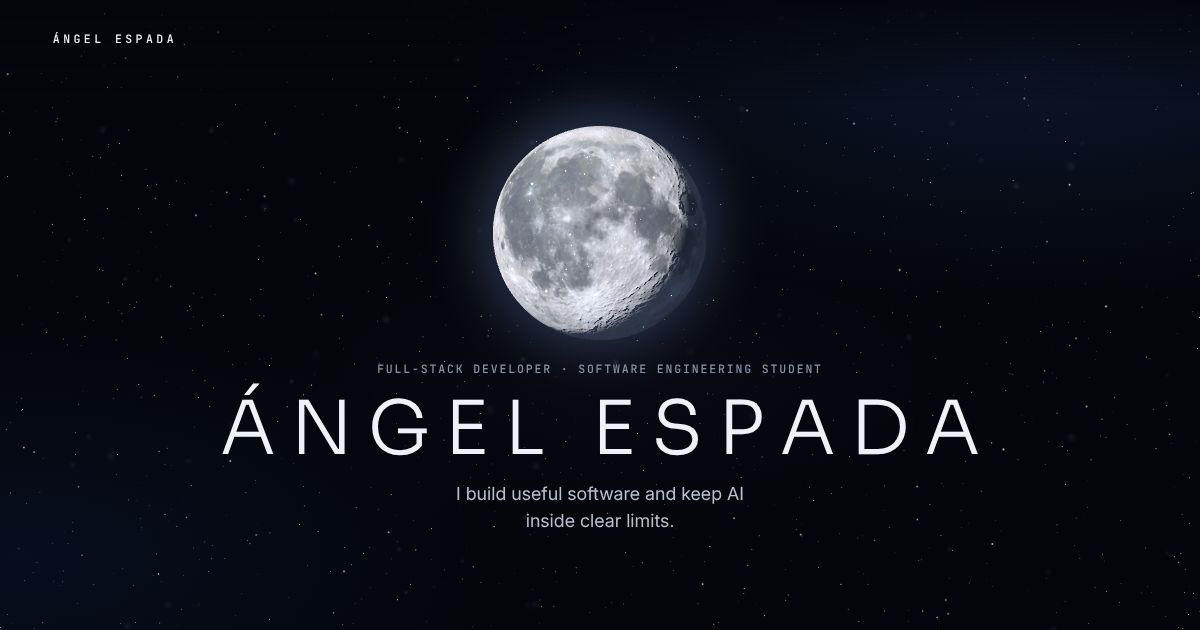
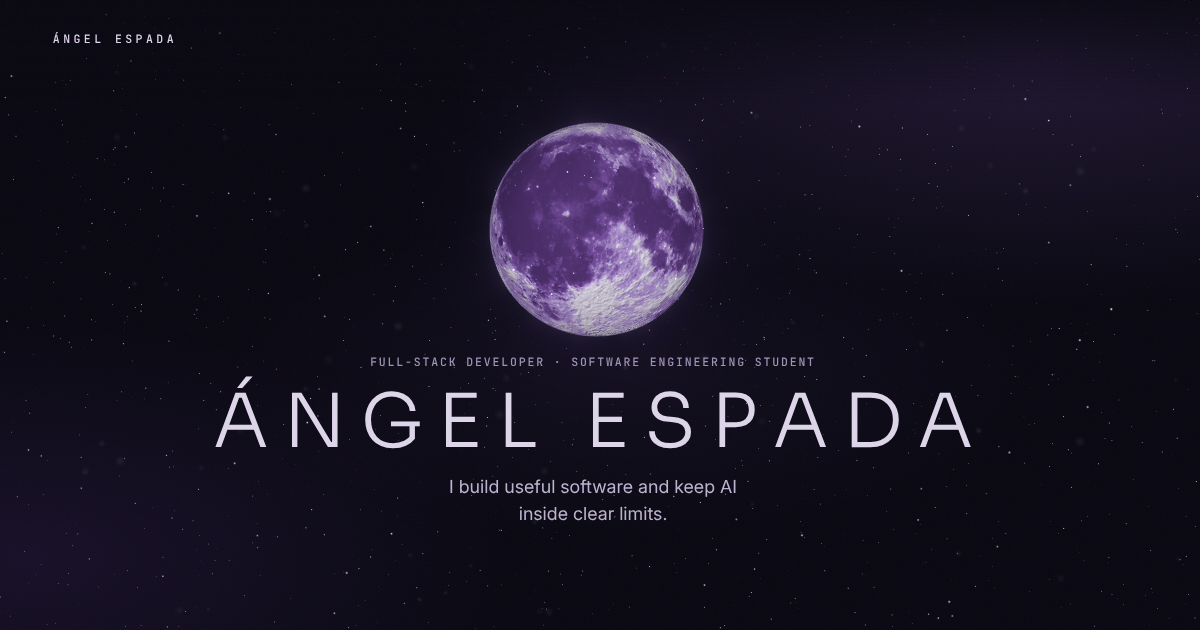
Violet Moon identity; constellations loose in the night sky
Palette tokens from the Violet Moon brief across the site, a violet 2D
Moon, favicon and share image. The constellations leave their panels:
each has its own angle, size and place, with faint field stars around
it. The distance read-out of the old landing story is gone, and the
eclipse easing follows real elapsed time.

Claude-Session: https://claude.ai/code/session_01JAtTwg3b8ajGojUEkEGU2J

Changed region(s): [[0.185, 0.181, 0.8325, 0.7238], [0.37, 0.754, 0.6167, 0.8444]]

diff --git a/src/styles/global.css b/src/styles/global.css
@@ -1,13 +1,17 @@
-/* Lunar Experience. One dark field, white and silver type, one pale blue accent. */
+/* Violet Moon. One dark field, silver type, violet light. */
 :root {
-  --bg: #03050a;
-  --ink: #eef2f8;
-  --silver: #b6bfcd;
-  --dim: #8590a3;
-  --line: rgba(190, 208, 235, 0.16);
-  --line-strong: rgba(190, 208, 235, 0.34);
-  --blue: #9cc0ff;
-  --accent: var(--blue);
+  /* Violet Moon */
+  --bg: #080711;        /* Space Black: the field */
+  --surface: #111020;   /* Deep Space: panels */
+  --deep: #251638;      /* Deep Purple: secondary fields */
+  --royal: #65428D;     /* Royal Violet: accents, never text (2.6:1 on the field) */
+  --soft: #A98AD8;      /* Soft Violet: light, focus and highlighted text (7:1) */
+  --ink: #DDD5E9;       /* Lunar Silver: headings and strong text (14:1) */
+  --silver: #BDB3CF;    /* body text (10:1) */
+  --dim: #9C91B4;       /* quiet labels (6.8:1) */
+  --line: rgba(201, 182, 236, 0.16);
+  --line-strong: rgba(201, 182, 236, 0.34);
+  --accent: var(--soft);
 
   --m: clamp(20px, 4.4vw, 72px);
   --gap: clamp(96px, 14vw, 200px);
@@ -37,7 +41,7 @@ img, video, svg { display: block; max-width: 100%; }
 img, video { height: auto; }
 a { color: inherit; text-decoration: none; }
 [hidden] { display: none !important; }
-:focus-visible { outline: 2px solid var(--blue); outline-offset: 4px; border-radius: 4px; }
+:focus-visible { outline: 2px solid var(--soft); outline-offset: 4px; border-radius: 4px; }
 ::selection { background: var(--ink); color: var(--bg); }
 
 /* ---------- Type ---------- */
@@ -46,12 +50,12 @@ a { color: inherit; text-decoration: none; }
 .lead { font-size: clamp(18px, 1.5vw, 22px); line-height: 1.5; color: var(--silver); max-width: 34ch; text-wrap: pretty; }
 .label { display: flex; align-items: center; gap: 14px; color: var(--silver); }
 .label::after { content: ''; width: 44px; height: 1px; background: var(--line-strong); }
-.label b { font-weight: 500; color: var(--blue); }
+.label b { font-weight: 500; color: var(--soft); }
 
 /* ---------- Buttons and links ---------- */
 .btn {
   display: inline-flex; align-items: center; gap: 12px; min-height: 48px; padding: 0 24px;
-  border: 1px solid var(--line-strong); border-radius: 999px; background: rgba(3, 5, 10, 0.35);
+  border: 1px solid var(--line-strong); border-radius: 999px; background: rgba(8, 7, 17, 0.35);
   font-family: var(--mono); font-size: 12px; font-weight: 500; letter-spacing: 0.14em; text-transform: uppercase; color: var(--ink);
   transition: background-color 0.35s var(--ease), color 0.35s var(--ease), border-color 0.35s, transform 0.35s var(--ease);
 }
@@ -72,18 +76,18 @@ a { color: inherit; text-decoration: none; }
 .space::before {
   content: ''; position: absolute; inset: -10%;
   background:
-    radial-gradient(58% 46% at 80% 16%, rgba(52, 86, 168, 0.2), transparent 70%),
-    radial-gradient(48% 44% at 10% 82%, rgba(30, 58, 128, 0.17), transparent 70%),
-    radial-gradient(40% 30% at 52% 58%, rgba(84, 72, 150, 0.06), transparent 70%);
+    radial-gradient(58% 46% at 80% 16%, rgba(101, 66, 141, 0.26), transparent 70%),
+    radial-gradient(48% 44% at 10% 82%, rgba(70, 40, 110, 0.24), transparent 70%),
+    radial-gradient(40% 30% at 52% 58%, rgba(120, 80, 170, 0.08), transparent 70%);
 }
 /* A sparse still sky, shown until (or instead of) the live one. */
 .space::after {
   content: ''; position: absolute; inset: 0; opacity: 0.75; transition: opacity 1.2s;
   background-image:
-    radial-gradient(1px 1px at 12% 18%, #fff, transparent), radial-gradient(1px 1px at 78% 9%, #cfe0ff, transparent),
+    radial-gradient(1px 1px at 12% 18%, #fff, transparent), radial-gradient(1px 1px at 78% 9%, #e6dcff, transparent),
     radial-gradient(1.4px 1.4px at 33% 72%, #fff, transparent), radial-gradient(1px 1px at 91% 55%, #fff, transparent),
-    radial-gradient(1px 1px at 58% 34%, #dfe9ff, transparent), radial-gradient(1.6px 1.6px at 6% 61%, #fff, transparent),
-    radial-gradient(1px 1px at 46% 88%, #fff, transparent), radial-gradient(1px 1px at 68% 78%, #cfe0ff, transparent),
+    radial-gradient(1px 1px at 58% 34%, #e6dcff, transparent), radial-gradient(1.6px 1.6px at 6% 61%, #fff, transparent),
+    radial-gradient(1px 1px at 46% 88%, #fff, transparent), radial-gradient(1px 1px at 68% 78%, #e6dcff, transparent),
     radial-gradient(1.2px 1.2px at 24% 43%, #fff, transparent), radial-gradient(1px 1px at 86% 28%, #fff, transparent);
   background-size: 620px 540px;
 }
@@ -100,9 +104,9 @@ a { color: inherit; text-decoration: none; }
 
 .page { position: relative; z-index: 1; overflow-x: clip; }
 
-/* ---------- Fixed instruments: navigation, scene rail, telemetry ---------- */
+/* ---------- Fixed instruments: navigation and scene rail ---------- */
 .nav { position: fixed; inset: 0 0 auto 0; z-index: 20; display: flex; align-items: center; justify-content: space-between; gap: 20px; padding: 18px var(--m); }
-.nav::before { content: ''; position: absolute; inset: 0 0 -28px 0; z-index: -1; background: linear-gradient(to bottom, rgba(3, 5, 10, 0.86), rgba(3, 5, 10, 0)); pointer-events: none; }
+.nav::before { content: ''; position: absolute; inset: 0 0 -28px 0; z-index: -1; background: linear-gradient(to bottom, rgba(8, 7, 17, 0.86), rgba(8, 7, 17, 0)); pointer-events: none; }
 .nav a { color: var(--silver); transition: color 0.25s; }
 .nav a:hover, .nav a[aria-current] { color: var(--ink); }
 .nav-mark { color: var(--ink) !important; letter-spacing: 0.3em; padding: 12px 0; }
@@ -112,7 +116,7 @@ a { color: inherit; text-decoration: none; }
 .nav-menu { position: relative; }
 .nav-menu summary { list-style: none; cursor: pointer; color: var(--ink); padding: 12px 0; }
 .nav-menu summary::-webkit-details-marker { display: none; }
-.nav-menu ul { position: absolute; right: 0; top: 100%; min-width: 220px; display: grid; gap: 4px; padding: 18px 22px; border: 1px solid var(--line); border-radius: 16px; background: rgba(6, 9, 16, 0.96); }
+.nav-menu ul { position: absolute; right: 0; top: 100%; min-width: 220px; display: grid; gap: 4px; padding: 18px 22px; border: 1px solid var(--line); border-radius: 16px; background: rgba(17, 16, 32, 0.96); }
 .nav-menu li a { display: block; padding: 11px 0; color: var(--ink); }
 @media (min-width: 900px) { .nav-links { display: flex; } .nav-menu { display: none; } }
 
@@ -123,7 +127,7 @@ a { color: inherit; text-decoration: none; }
 .rail a::after { content: ''; width: 14px; height: 1px; background: currentColor; transition: width 0.4s var(--ease); }
 .rail a:hover span, .rail a:focus-visible span { opacity: 1; transform: none; }
 .rail a:hover, .rail a[aria-current] { color: var(--ink); }
-.rail a[aria-current]::after { width: 34px; background: var(--blue); }
+.rail a[aria-current]::after { width: 34px; background: var(--soft); }
 @media (min-width: 1100px) and (min-height: 620px) { .rail { display: block; } }
 
 /* ---------- Entrances. Content is only hidden while the script that reveals it is running. ---------- */
@@ -153,31 +157,26 @@ a { color: inherit; text-decoration: none; }
 .about { padding-block: 0; }
 .about-inner { display: grid; gap: 22px; align-content: center; max-width: 600px; padding-block: var(--gap); }
 .about-inner p:not(.hud) { max-width: 52ch; }
-.about-inner { text-shadow: 0 0 18px rgba(3, 5, 10, 0.9); }
+.about-inner { text-shadow: 0 0 18px rgba(8, 7, 17, 0.9); }
 .interests { display: grid; gap: 8px; margin-top: 8px; }
 .interests li { display: flex; gap: 12px; color: var(--silver); }
-.interests li::before { content: '+'; color: var(--blue); }
+.interests li::before { content: '+'; color: var(--soft); }
 @media (min-width: 900px) {
   .about { min-height: 175svh; }
   .about-inner { position: sticky; top: 0; min-height: 100svh; padding-block: 96px 48px; }
 }
 
-/* 03 Skills: constellations, drawn like star charts */
-.sky { display: grid; gap: clamp(20px, 2.4vw, 32px); margin-top: clamp(48px, 7vw, 96px); }
-.constellation {
-  position: relative; padding: 22px 22px 34px; border-radius: 20px;
-  border: 1px solid rgba(169, 138, 216, 0.22);
-  background: radial-gradient(120% 90% at 30% 0%, rgba(37, 22, 56, 0.55), rgba(17, 16, 32, 0.62));
-  transition: opacity 0.5s var(--ease), border-color 0.4s;
-}
-.constellation:hover, .constellation:focus-within { border-color: rgba(169, 138, 216, 0.45); }
-.constellation h3 { color: var(--ink); font-size: 13px; display: flex; align-items: baseline; gap: 10px; }
-.constellation h3 span { color: var(--dim); }
-.c-map { position: relative; aspect-ratio: 1; margin: 18px 6px 0;
-  background-image: linear-gradient(rgba(169, 138, 216, 0.07) 1px, transparent 1px), linear-gradient(90deg, rgba(169, 138, 216, 0.07) 1px, transparent 1px);
-  background-size: 12.5% 12.5%; background-position: -1px -1px; border-radius: 6px; }
+/* 03 Skills: constellations, loose in the night sky */
+.sky { display: grid; gap: clamp(40px, 5vw, 72px) clamp(24px, 4vw, 64px); margin-top: clamp(56px, 8vw, 112px); }
+.constellation { position: relative; transition: opacity 0.6s var(--ease); }
+/* The name of a constellation, written on the sky like on an old star chart. */
+.constellation h3 { position: relative; z-index: 1; font-family: var(--display); font-weight: 300; font-size: clamp(17px, 1.5vw, 21px); letter-spacing: 0.02em; color: var(--dim); }
+.c-map { position: relative; aspect-ratio: 1; margin: 6px 0 0; }
+.c-field { position: absolute; inset: -6%; pointer-events: none; }
+.c-field i { position: absolute; width: var(--s); height: var(--s); border-radius: 50%; background: #efe8ff; opacity: var(--o); translate: -50% -50%;
+  animation: twinkle 7s ease-in-out infinite; animation-delay: calc(var(--d) * -1); }
 .c-map > svg { position: absolute; inset: 0; width: 100%; height: 100%; overflow: visible; }
-.c-map line { stroke: rgba(201, 182, 236, 0.5); stroke-width: 0.36; stroke-linecap: round;
+.c-map line { stroke: rgba(201, 182, 236, 0.34); stroke-width: 0.3; stroke-linecap: round;
   stroke-dasharray: 1; stroke-dashoffset: 1; transition: stroke-dashoffset 1.6s var(--ease), stroke 0.35s, stroke-width 0.35s;
   transition-delay: calc(var(--n) * 160ms + 200ms), 0s, 0s; }
 .constellation.in line, html:not(.js) .c-map line { stroke-dashoffset: 0; }
@@ -191,7 +190,7 @@ a { color: inherit; text-decoration: none; }
 .star { position: absolute; left: 0; top: 0; width: var(--core); height: var(--core); translate: -50% -50%; border-radius: 50%;
   background: #fbf8ff; box-shadow: 0 0 calc(4px + 10px * var(--glow)) calc(1px + 3px * var(--glow)) rgba(169, 138, 216, calc(0.35 + 0.5 * var(--glow)));
   animation: twinkle 5.5s ease-in-out infinite; animation-delay: calc(var(--n) * -1.3s); transition: scale 0.35s var(--ease); }
-.star::before { content: ''; position: absolute; inset: calc(var(--core) * -0.9); border-radius: 50%; border: 1px solid rgba(201, 182, 236, calc(0.25 + 0.4 * var(--glow))); }
+.star::before { content: ''; position: absolute; inset: calc(var(--core) * -0.9); border-radius: 50%; border: 1px solid rgba(201, 182, 236, calc(0.08 + 0.22 * var(--glow))); }
 .star::after { content: ''; position: absolute; inset: calc(var(--core) * -2.6); border-radius: 50%; background: radial-gradient(circle, rgba(169, 138, 216, calc(0.22 * var(--glow))), transparent 70%); }
 .c-node > span { position: absolute; left: 0; top: calc(var(--core) + 10px); translate: -50% 0; width: max-content; max-width: 132px;
   display: flex; align-items: center; justify-content: center; gap: 6px; flex-wrap: wrap;
@@ -209,24 +208,45 @@ a { color: inherit; text-decoration: none; }
 .c-node:focus-visible > span { outline: 1px solid var(--soft); outline-offset: 4px; border-radius: 4px; }
 @keyframes twinkle { 50% { opacity: 0.72; } }
 @media (hover: hover) {
-  .sky:hover .constellation:not(:hover) { opacity: 0.55; }
+  .sky:hover .constellation:not(:hover) { opacity: 0.5; }
+  .constellation:hover h3 { color: var(--ink); }
 }
-@media (min-width: 700px) { .sky { grid-template-columns: repeat(2, minmax(0, 1fr)); } }
-@media (min-width: 1100px) { .sky { grid-template-columns: repeat(3, minmax(0, 1fr)); margin-right: 96px; } }
-@media (max-width: 699px) { .constellation { padding: 18px 16px 30px; } .c-node > span { font-size: 12px; max-width: 108px; } }
+/* Not a grid: each constellation has its own size and place in the sky. */
+@media (min-width: 700px) {
+  .sky { grid-template-columns: repeat(2, minmax(0, 1fr)); }
+  .constellation:nth-child(even) { margin-top: 96px; }
+  .constellation:nth-child(4n + 1) { width: 88%; }
+  .constellation:nth-child(4n + 2) { width: 92%; justify-self: end; }
+  .constellation:nth-child(4n + 3) { width: 94%; justify-self: center; }
+}
+@media (min-width: 1100px) {
+  .sky { grid-template-columns: repeat(3, minmax(0, 1fr)); margin-right: 96px; }
+  .constellation:nth-child(n) { margin-top: 0; width: auto; justify-self: stretch; }
+  .constellation:nth-child(1) { width: 92%; }
+  .constellation:nth-child(2) { margin-top: 120px; width: 84%; justify-self: center; }
+  .constellation:nth-child(3) { margin-top: 30px; width: 90%; justify-self: end; }
+  .constellation:nth-child(4) { margin-top: -40px; width: 86%; justify-self: end; }
+  .constellation:nth-child(5) { margin-top: 70px; width: 94%; }
+  .constellation:nth-child(6) { margin-top: -10px; width: 84%; justify-self: center; }
+}
+@media (max-width: 699px) {
+  .constellation:nth-child(odd) { width: 94%; }
+  .constellation:nth-child(even) { width: 90%; justify-self: end; }
+  .c-node > span { font-size: 12px; max-width: 108px; }
+}
 
 /* 04 Expeditions */
 .filter { display: flex; flex-wrap: wrap; align-items: center; gap: 6px 22px; margin-top: clamp(28px, 4vw, 48px); }
 .filter button { all: unset; cursor: pointer; font-family: var(--mono); font-size: 12px; font-weight: 500; letter-spacing: 0.14em; text-transform: uppercase; color: var(--dim); padding: 12px 0; position: relative; transition: color 0.25s; }
-.filter button::after { content: ''; position: absolute; left: 0; right: 0; bottom: 6px; height: 1px; background: var(--blue); transform: scaleX(0); transform-origin: left; transition: transform 0.4s var(--ease); }
+.filter button::after { content: ''; position: absolute; left: 0; right: 0; bottom: 6px; height: 1px; background: var(--soft); transform: scaleX(0); transform-origin: left; transition: transform 0.4s var(--ease); }
 .filter button:hover, .filter button[aria-pressed='true'] { color: var(--ink); }
 .filter button[aria-pressed='true']::after { transform: scaleX(1); }
-.filter button:focus-visible { outline: 2px solid var(--blue); outline-offset: 4px; }
+.filter button:focus-visible { outline: 2px solid var(--soft); outline-offset: 4px; }
 .filter-count { margin-left: auto; }
 
 .exp { display: grid; gap: 36px; padding-block: clamp(56px, 9vw, 130px); align-items: center; }
 .exp-visual { position: relative; perspective: 1500px; }
-.exp-shot { position: relative; z-index: 1; display: block; overflow: hidden; border: 1px solid var(--line); border-radius: 14px; background: #0a0e17; box-shadow: 0 50px 90px -40px rgba(0, 0, 0, 0.9); transform: rotateY(-7deg) rotateX(2deg); transition: transform 0.9s var(--ease), border-color 0.4s; }
+.exp-shot { position: relative; z-index: 1; display: block; overflow: hidden; border: 1px solid var(--line); border-radius: 14px; background: #111020; box-shadow: 0 50px 90px -40px rgba(0, 0, 0, 0.9); transform: rotateY(-7deg) rotateX(2deg); transition: transform 0.9s var(--ease), border-color 0.4s; }
 .exp-shot:hover { transform: none; border-color: var(--line-strong); }
 .exp-shot video, .exp-shot img { width: 100%; }
 .exp-shot.portrait { width: min(290px, 62vw); border-radius: 30px; margin-inline: auto; }
@@ -241,7 +261,7 @@ a { color: inherit; text-decoration: none; }
 .planet::after { content: ''; position: absolute; inset: 0; border-radius: 50%; opacity: 0.35; mix-blend-mode: overlay;
   background: repeating-linear-gradient(172deg, rgba(255, 255, 255, 0.5) 0 2px, transparent 2px 9px, rgba(0, 0, 0, 0.5) 9px 12px, transparent 12px 21px); }
 .exp-visual .planet { position: absolute; z-index: 2; left: -22px; top: -30px; }
-.exp-info { display: grid; gap: 18px; align-content: center; justify-items: start; text-shadow: 0 0 22px rgba(3, 5, 10, 0.95), 0 0 4px rgba(3, 5, 10, 0.8); }
+.exp-info { display: grid; gap: 18px; align-content: center; justify-items: start; text-shadow: 0 0 22px rgba(8, 7, 17, 0.95), 0 0 4px rgba(8, 7, 17, 0.8); }
 .exp-info .btn { text-shadow: none; }
 .exp-meta { display: flex; flex-wrap: wrap; gap: 6px 20px; align-items: center; }
 .exp-name { font-family: var(--display); font-weight: 300; font-size: clamp(40px, 6vw, 92px); letter-spacing: -0.035em; line-height: 0.98; color: var(--ink); }
@@ -251,7 +271,7 @@ a { color: inherit; text-decoration: none; }
 .exp-links { display: flex; flex-wrap: wrap; align-items: center; gap: 8px 26px; margin-top: 8px; }
 .status { display: inline-flex; align-items: center; gap: 9px; color: var(--ink); }
 .status i { position: relative; width: 7px; height: 7px; border-radius: 50%; background: currentColor; }
-.status[data-status='in-progress'] { color: var(--blue); }
+.status[data-status='in-progress'] { color: var(--soft); }
 .status[data-status='in-progress'] i::after { content: ''; position: absolute; inset: 0; border-radius: 50%; background: currentColor; animation: pulse 2.2s ease-out infinite; }
 .status[data-status='archived'] { color: var(--dim); }
 .status[data-status='archived'] i { background: none; box-shadow: inset 0 0 0 1px currentColor; }
@@ -279,9 +299,9 @@ a { color: inherit; text-decoration: none; }
 .contact .lead { max-width: 32ch; }
 .mail { font-family: var(--display); font-weight: 300; font-size: clamp(20px, 4.4vw, 62px); letter-spacing: -0.02em; line-height: 1.1; color: var(--ink); position: relative; padding-bottom: 0.14em; }
 .mail::after { content: ''; position: absolute; left: 0; right: 0; bottom: 0; height: 1px; background: var(--line-strong); transform-origin: left; transition: transform 0.6s var(--ease), background-color 0.3s; }
-.mail:hover::after { background: var(--blue); transform: scaleX(1.03); }
+.mail:hover::after { background: var(--soft); transform: scaleX(1.03); }
 .contact-links { display: flex; flex-wrap: wrap; justify-content: center; gap: 4px 34px; }
-.contact::after { content: ''; position: absolute; inset: auto 0 0 0; height: 150px; background: linear-gradient(to top, rgba(3, 5, 10, 0.92), rgba(3, 5, 10, 0)); pointer-events: none; }
+.contact::after { content: ''; position: absolute; inset: auto 0 0 0; height: 150px; background: linear-gradient(to top, rgba(8, 7, 17, 0.92), rgba(8, 7, 17, 0)); pointer-events: none; }
 .contact-foot { position: relative; z-index: 1; display: flex; flex-wrap: wrap; justify-content: center; align-items: center; gap: 4px 32px; text-align: center; }
 .contact-foot p { color: var(--silver); max-width: 60ch; }
 .contact-foot a { color: var(--ink); padding: 12px 0; display: inline-block; }
@@ -308,7 +328,7 @@ a { color: inherit; text-decoration: none; }
 .pbody { display: grid; gap: 14px var(--m); padding: var(--gap) var(--m) 0; }
 .pbody h2 { font-family: var(--display); font-weight: 300; font-size: clamp(26px, 2.8vw, 40px); letter-spacing: -0.02em; line-height: 1.1; color: var(--ink); margin-top: clamp(32px, 5vw, 56px); }
 .pbody h2:first-child { margin-top: 0; }
-.pbody p, .pbody li { max-width: 62ch; text-shadow: 0 0 18px rgba(3, 5, 10, 0.95), 0 0 3px rgba(3, 5, 10, 0.8); }
+.pbody p, .pbody li { max-width: 62ch; text-shadow: 0 0 18px rgba(8, 7, 17, 0.95), 0 0 3px rgba(8, 7, 17, 0.8); }
 @media (min-width: 900px) {
   .pbody { grid-template-columns: repeat(12, minmax(0, 1fr)); }
   .pbody > h2 { grid-column: 1 / 5; margin-top: clamp(40px, 6vw, 88px); }
@@ -318,7 +338,7 @@ a { color: inherit; text-decoration: none; }
 }
 .gallery { display: grid; gap: var(--m); padding: var(--gap) var(--m); }
 .gallery h2 { grid-column: 1 / -1; }
-.gallery figure { overflow: hidden; border: 1px solid var(--line); border-radius: 12px; background: #0a0e17; }
+.gallery figure { overflow: hidden; border: 1px solid var(--line); border-radius: 12px; background: #111020; }
 .gallery img { width: 100%; }
 .gallery.portrait { grid-template-columns: repeat(2, minmax(0, 1fr)); }
 .gallery.portrait figure { border-radius: 22px; }

diff --git a/src/scripts/space/controller.ts b/src/scripts/space/controller.ts
@@ -124,7 +124,8 @@ export class SpaceController {
 
   private tick = (now: number) => {
     this.raf = this.animate ? requestAnimationFrame(this.tick) : 0;
-    const dt = Math.min(0.05, (now - this.last) / 1000);
+    const elapsed = (now - this.last) / 1000;
+    const dt = Math.min(0.05, elapsed);
     this.last = now;
     const y = scrollY;
     // Nothing moved: a still picture needs no new frame, a live one gets by on half of them.
@@ -140,7 +141,8 @@ export class SpaceController {
     if (!this.current || !this.animate || this.eclipse < 0) { this.current = target; this.eclipse = eclipseTarget; }
     else {
       this.follow = Math.min(7, this.follow + dt * 2.4);
-      const k = 1 - Math.exp(-dt * this.follow);
+      // Real elapsed time (up to a tenth of a second), so a slow device still settles on time.
+      const k = 1 - Math.exp(-Math.min(0.1, elapsed) * this.follow);
       this.current = mixPose(this.current, target, k);
       // The same easing as the pose: one clock for placement and light.
       this.eclipse += (eclipseTarget - this.eclipse) * k;

diff --git a/src/scripts/space/scene.ts b/src/scripts/space/scene.ts
@@ -125,7 +125,8 @@ void main() {
 
   // Craters keep their volume even under a frontal sun: shade the relief against a fixed oblique light.
   vec3 R = normalize(vec3(-0.62, 0.5, 0.6));
-  float relief = clamp(1.0 + (dot(nW, R) - dot(pW, R)) * 1.7, 0.5, 1.45);
+  // Close up the photograph is magnified: soften the relief so it does not turn into noise.
+  float relief = clamp(1.0 + (dot(nW, R) - dot(pW, R)) * 1.7 * (1.0 - 0.65 * uZoom), 0.5, 1.45);
 
   // Violet as material: the brightness of the map runs through the palette.
   float h = lum(albedo);

diff --git a/src/scripts/space/poses.ts b/src/scripts/space/poses.ts
@@ -35,7 +35,7 @@ const tall: Record<PoseKey, Pose> = {
   hero: { ...wide.hero, x: 0, y: 0.34, r: 0.125 },
   about: { ...wide.about, x: 0.9, y: 0.84, r: 0.17 },
   skills: { ...wide.skills, x: 1.0, y: -1.3, r: 0.2 },
-  projects: { ...wide.projects, x: 0, y: -1.5, r: 1.1 },
+  projects: { ...wide.projects, x: 0, y: -2.25, r: 0.9 },
   contact: { ...wide.contact, y: 0.02, r: 0.2 },
   detail: { ...wide.detail, x: 0.9, y: -0.9, r: 0.4 },
   'detail-end': { ...wide['detail-end'], y: 0.02, r: 0.2 },

diff --git a/README.md b/README.md
@@ -1,6 +1,6 @@
-# Ángel Espada · Portfolio (Lunar Experience)
+# Ángel Espada · Portfolio (Violet Moon)
 
-The source of [ballenarcas.github.io](https://ballenarcas.github.io): a bilingual (Spanish and English) portfolio told as a trip to the Moon. A 3D Moon grows, moves and changes its light with the scroll, through five scenes: home, about, skills, expeditions (the projects) and contact.
+The source of [ballenarcas.github.io](https://ballenarcas.github.io): a bilingual (Spanish and English) portfolio built around a violet 3D Moon. As the visitor scrolls through the five scenes (home, about, skills, expeditions and contact) the Moon moves, grows and slides into a total eclipse with a violet corona; scrolling back up brings the light back.
 
 Built with [Astro](https://astro.build), [Three.js](https://threejs.org) and [GSAP](https://gsap.com). Every push to `main` publishes the site through GitHub Actions.
 
@@ -50,30 +50,34 @@ To change or remove a project, edit or delete its two files.
 | --- | --- |
 | `src/content/projects/` | One MDX case study per project and language |
 | `src/content.config.ts` | The fields a project file can have |
-| `src/data/skills.ts` | The technologies of the constellations |
+| `src/data/skills.ts` | The constellations: each technology's star (position, size, glow) and the lines between them |
 | `src/data/site.ts` | How the projects are sorted |
 | `src/i18n/ui.ts` | Interface texts and contact details |
 | `src/components/` | The five scenes and the reusable pieces (`Expedition`, `Planet`, `StatusBadge`) |
-| `src/scripts/space/poses.ts` | Where the Moon is, how large and how it is lit in every scene |
+| `src/scripts/space/poses.ts` | Where the Moon is and how large in every scene, and how the scroll becomes the eclipse |
 | `src/scripts/space/controller.ts` | Turns the scroll position into the state of the scene |
-| `src/scripts/space/scene.ts` | The Three.js scene: stars, halo and the Moon shader |
+| `src/scripts/space/scene.ts` | The Three.js scene: stars, the violet Moon shader and its corona |
 | `src/scripts/space/flat.ts` | The 2D fallback |
 | `src/scripts/motion.ts` | Starts the scene and runs the animations of the content |
 | `src/styles/global.css` | Colours, type and every layout |
+
+## The eclipse
+
+One value, `eclipse`, goes from 0 (full violet Moon) to 1 (total eclipse) with the scroll of the whole page (`eclipseFor` in `poses.ts`). The controller eases it together with the Moon's position, and the scene derives everything from it: the direction of the sun (`sunFor`), the earthshine on the night side, the violet rim and the corona. Poses only place the Moon; nothing else changes the light.
 
 ## How the scene adapts
 
 - **Full 3D**: desktop computers. 4K Moon map and fine surface grain up close.
 - **Light 3D**: phones and modest computers. 2K map, fewer stars.
-- **2D**: no WebGL, very little memory or data-saver mode. A picture of the Moon moved with CSS.
-- **Reduced motion**: a still Moon over the first screen and no animation.
+- **2D**: no WebGL, very little memory or data-saver mode. A picture of the violet Moon moved with CSS; it darkens and gains a violet glow with the eclipse (a flat picture cannot show the shadow advancing).
+- **Reduced motion**: a still full violet Moon over the first screen, no eclipse and no animation.
 - If frames arrive late, the scene lowers its own quality.
 
 Add `?high`, `?low` or `?flat` to the address to force one of them while testing.
 
 ## Credits
 
-- Moon map: Clementine mission data (USGS), version processed by Jens Meyer and Steve Albers, free for personal non-commercial use. To replace it, put another equirectangular map in `public/textures/moon-2k.webp` and `moon-4k.webp` (NASA's CGI Moon Kit is in the public domain).
+- Moon map: Clementine mission data (USGS), version processed by Jens Meyer and Steve Albers, free for personal non-commercial use. The violet colour is applied in the shader, not baked into the map. To replace it, put another equirectangular map in `public/textures/moon-2k.webp` and `moon-4k.webp` (NASA's CGI Moon Kit is in the public domain).
 - Technology icons: [Simple Icons](https://simpleicons.org).
 - The films of Boost and Votify were recorded with sample data.
 
